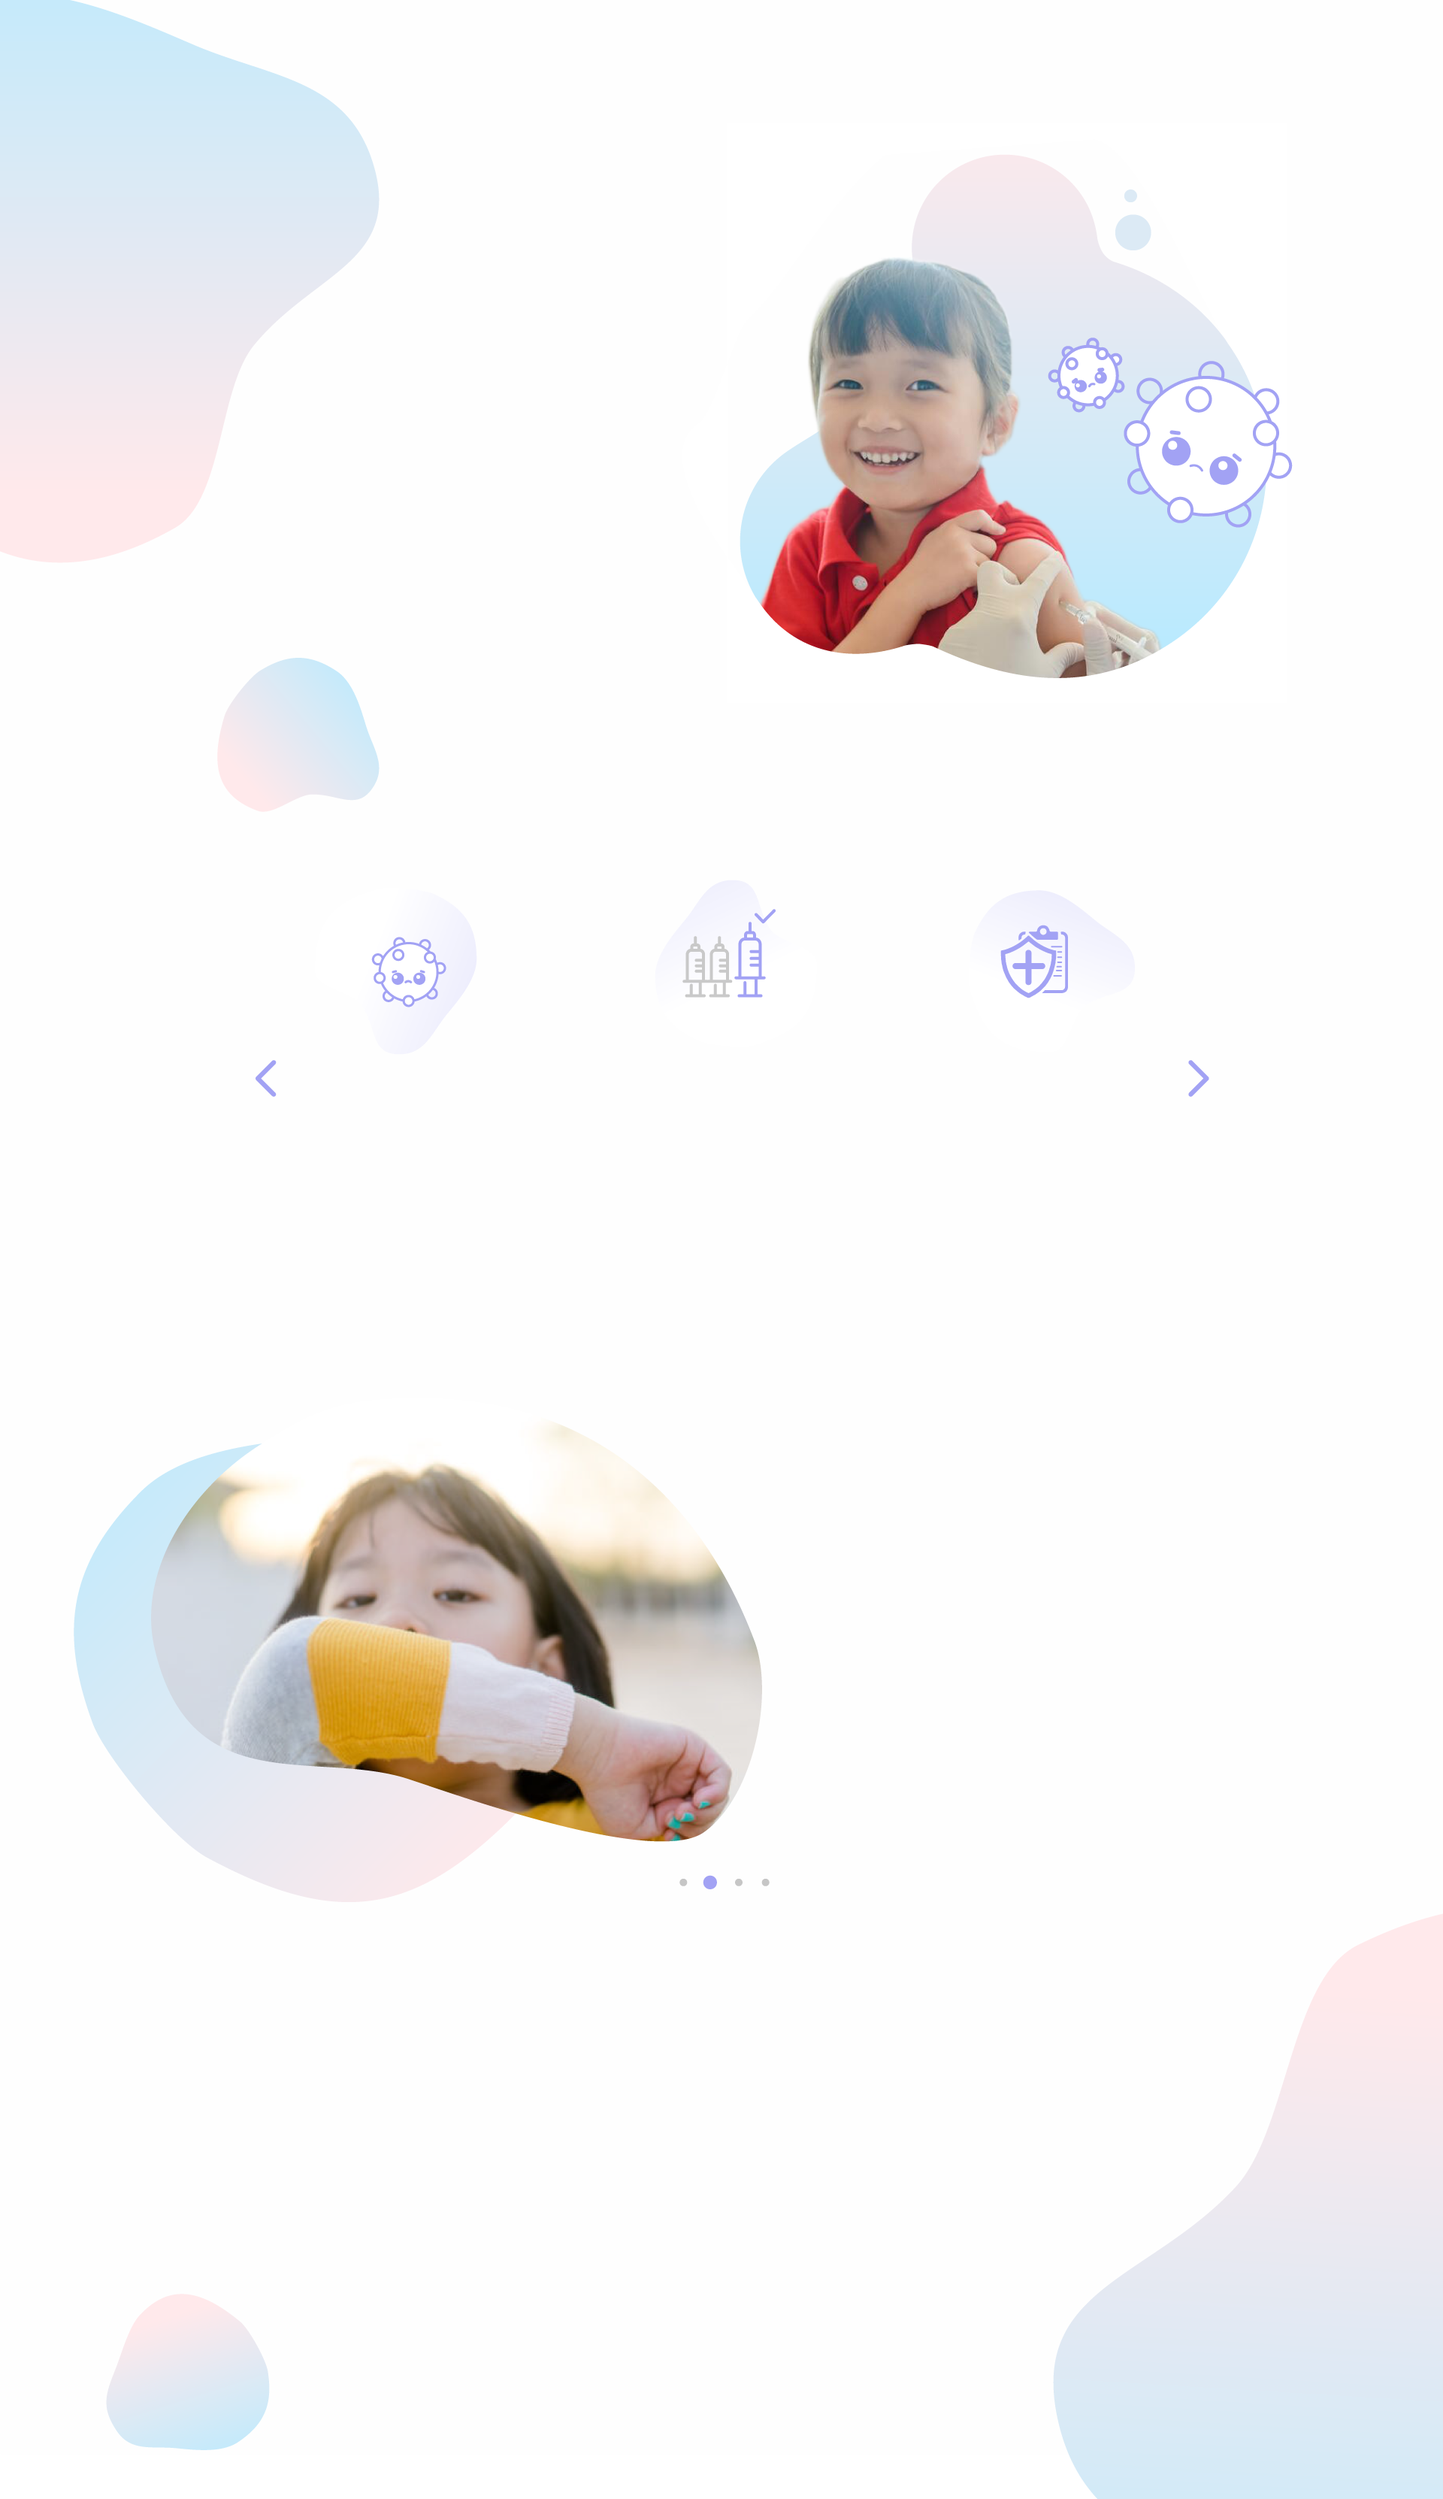
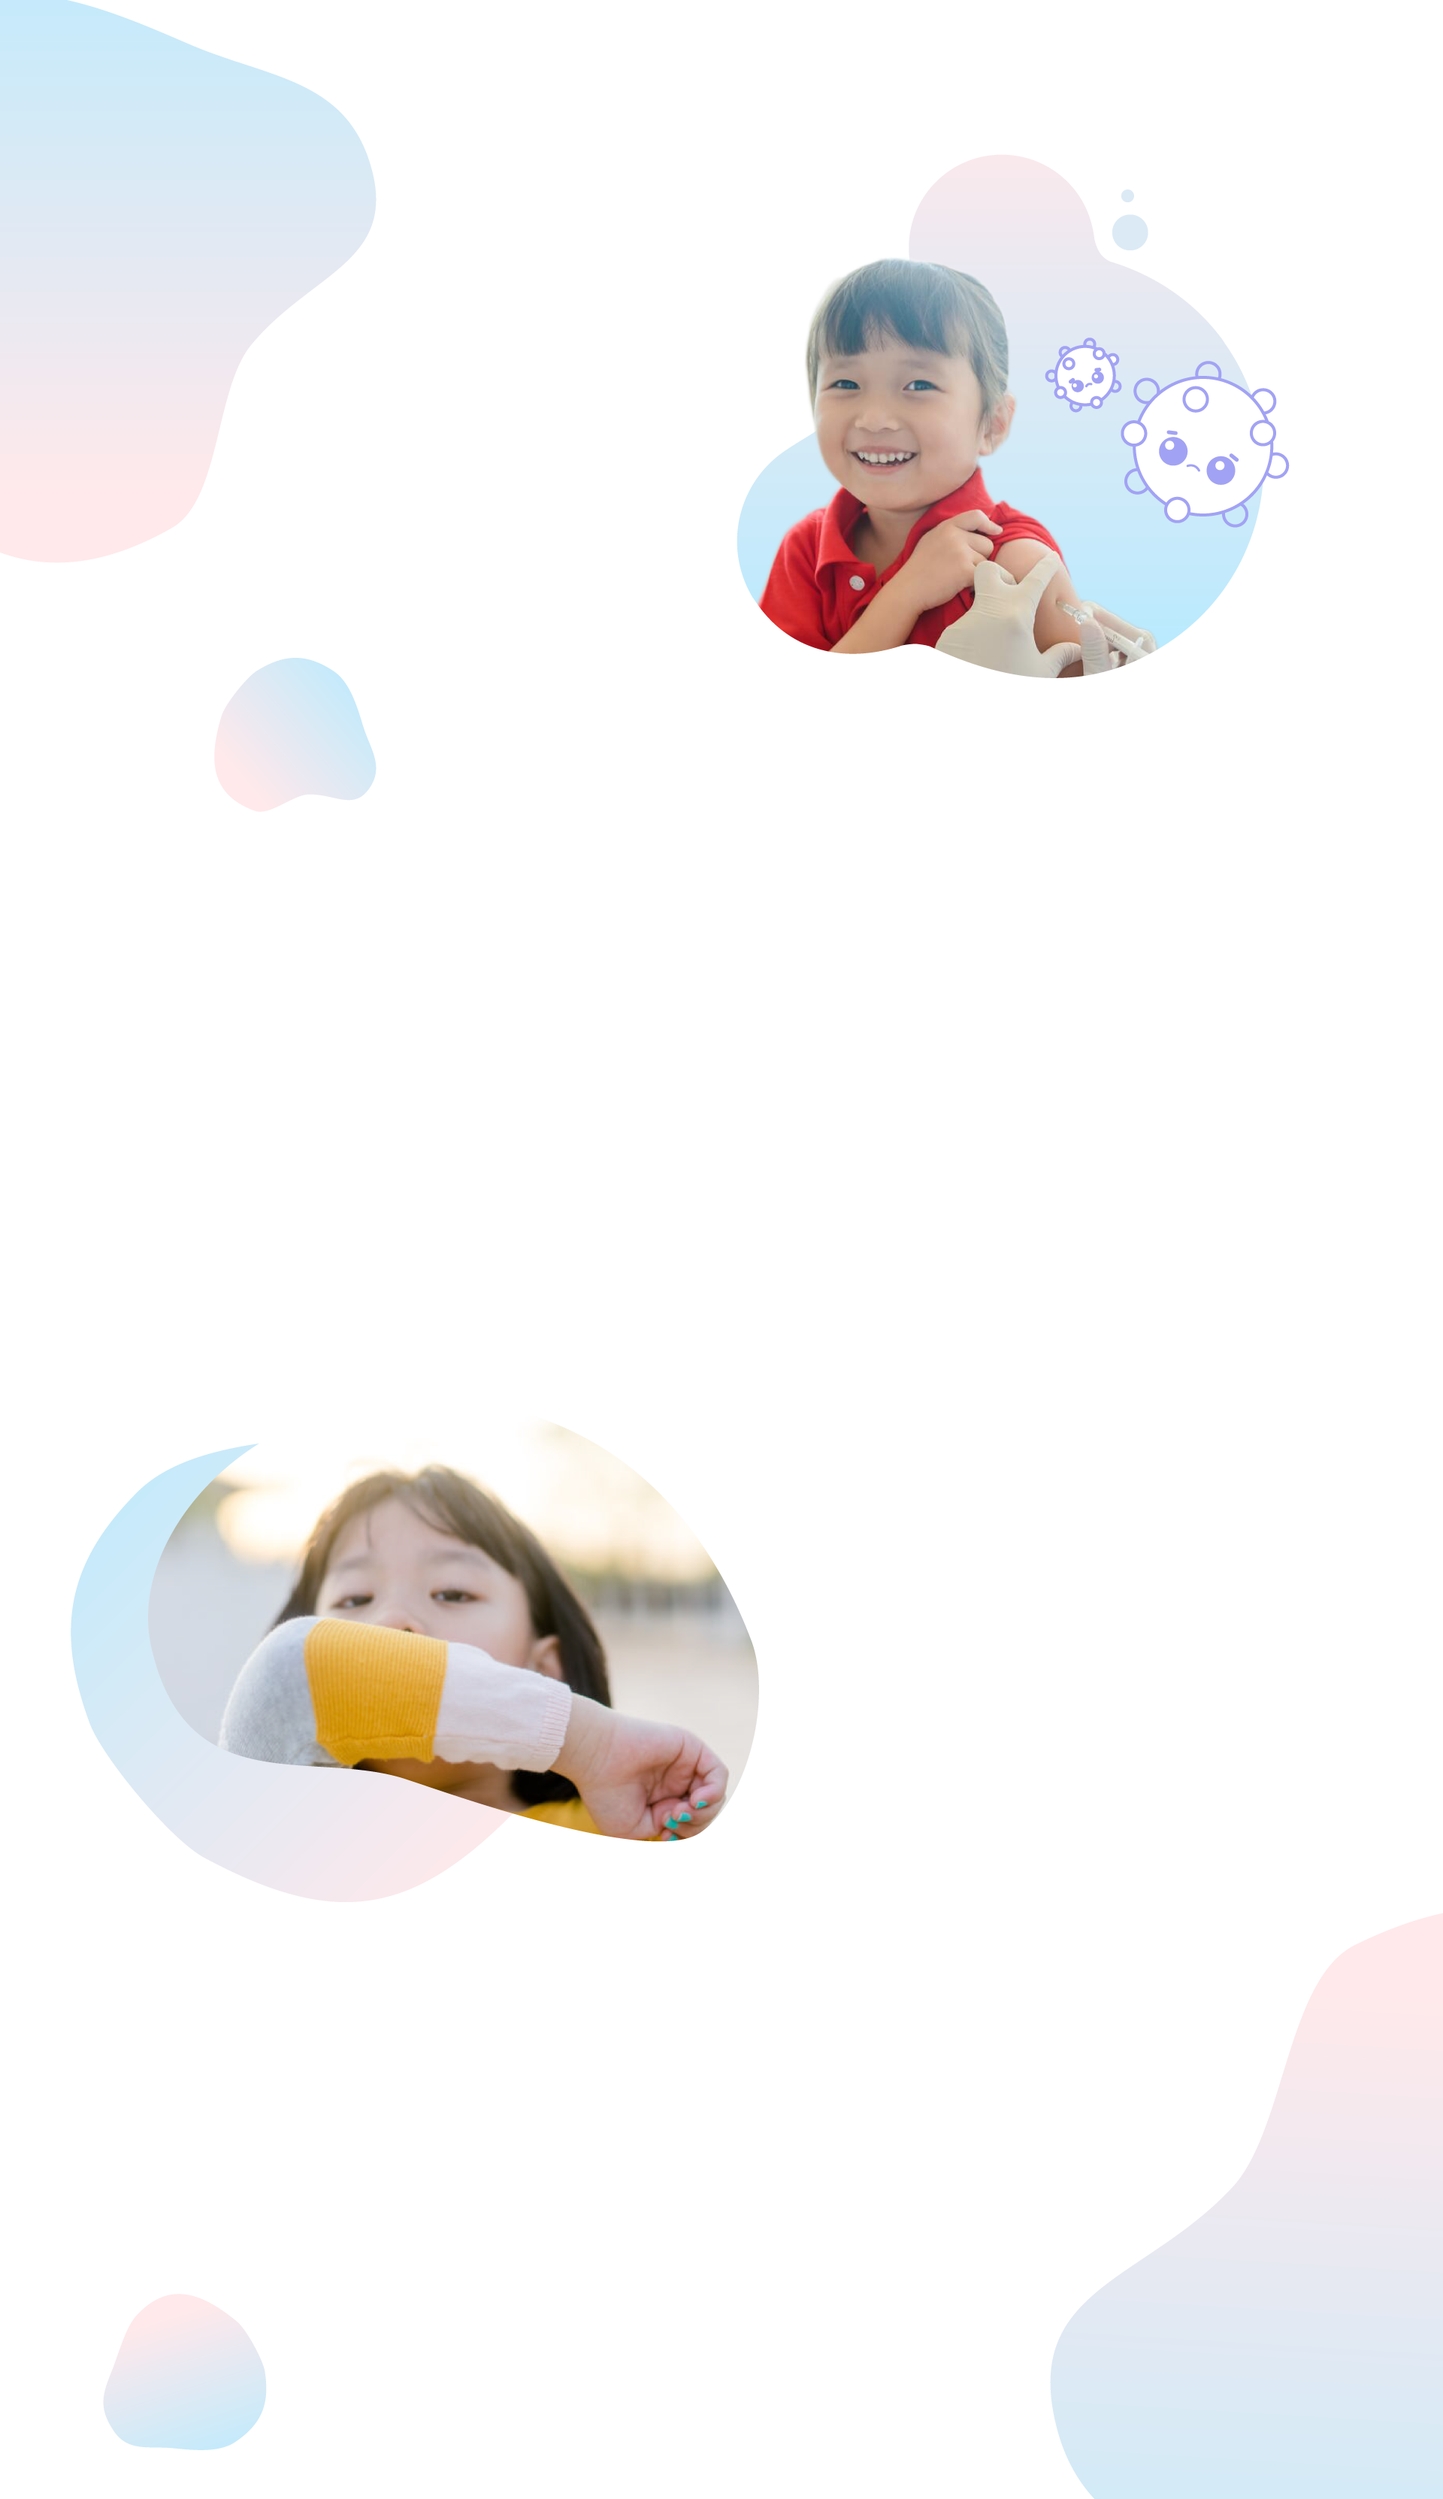
Add files via upload

diff --git a/index.html b/index.html
@@ -12,11 +12,11 @@
 	
 	<style>
 		body {
-			width: 1920px;
+			
 			height: 3324px;
 			background: url('image/web_1.png');
 			background-repeat: no-repeat;
-			background-size: 1920px 3324px
+			background-size: cover;
 			}
 		.one {font-size: 1.5em;
 			
@@ -43,10 +43,12 @@
 		div#header{
 			width: auto;
 			height: 200px;
+			white-space: nowrap;
 			}
 		div#header_in{
 			float: right;
 			width: 190px;
+			
 			
 			
 			
@@ -76,6 +78,7 @@
 		}
 		div#mid_header{
 			height: 600px;
+			white-space: nowrap;
 		
 		}
 		div#mid_header_in{
@@ -96,7 +99,7 @@
 			
 		}
 		div#table_up{
-			height: 310px;
+			height: 550px;
 		}
 		div#mid_low{
 			
@@ -105,6 +108,10 @@
 		div#low{
 			
 			height: 80px;
+		}
+		header_pyo{
+			
+			
 		}
 		
 	</style>
@@ -130,35 +137,31 @@
 <div id="big bbada">
   </div>
   
-<div class="" id="header">
+<div class="" id="header"><center><table width="1200px" border="0" id="header_pyo">
+  <tbody>
+    <tr>
+      
+      <td width="12%"><font size="6em">
+
+예방접종 PLUS</font></td>
+      <td width="30%" >&nbsp;</td>
+      <td width="10%"><a href="page4.html"><font size="+2"><p onMouseover="this.style.color='#A2A2F4';" onMouseout="this.style.color='black';">백신의 부작용</p></font></a></td>
+      <td width="2%">&nbsp;</td>
+      <td width="10%"> <a href="page2.html"><font size="+2"><p onMouseover="this.style.color='#A2A2F4';" onMouseout="this.style.color='black';">국내백신 현황</p></font></a></td>
+      <td width="2%">&nbsp;</td>
+      <td width="10%"><font size="+2"><a href="page3.html"><p onMouseover="this.style.color='#A2A2F4';" onMouseout="this.style.color='black';">국가 예방접종</p></font></a></td>
+      
+    </tr>
+  </tbody>
+</table>
+	</center>
+
 	
 	  
 	 
 		  
 	
-	<div class="" id="header_out"> &nbsp; </div>
 	
-
-	
-	<div id="title2">
-		<font size="6em">예방접종 PLUS</font>
-	</div>
-	
-	  <div class="one" id="rdot">
-		 &nbsp;
-		</div>
-	  <div class="one" id="header_in">
-		  <a href="page3.html">국가 예방접종</a>
-		</div>
-	<div class="one" id="header_in">
-		 <a href="page2.html">국내백신 현황</a>
-		</div>
-	<div class="one" id="header_in">
-		 <a href="page4.html">백신의 부작용</a> 
-		</div>
-	<div class="one" id="header_in">
-		 
-		</div>
 	
 	</div>
 	
@@ -171,10 +174,12 @@
 	
 <div id="mid_header">
 	
-	<div id="mid_header_in">.
-		</div>
-		
-		<div id="mid_heaer_in_health">
+	
+		<center><table width="80%" border="0">
+  <tbody>
+    <tr>
+      <td width="10%">&nbsp;</td>
+      <td width="30%"><div id="mid_heaer_in_health">
 		<font size="+5">건강한 내일을 여는<br>
 		예방접종의 가치
 			</font>
@@ -188,72 +193,56 @@
 			<br><br><br><br>
 			
 			<img src="image/guide.png" width="400"  alt=""/> </div>
-		</div>
+		</td>
+      <td>&nbsp;</td>
+    </tr>
+  </tbody>
+</table>
+			</center>
+</div>
+			
+
+		
 	
 	<div id="for your" class=for>
 		<center>
-		<font size="5">for your child<br></font><br>
-		<font size="4">당신의 관심이 내일의 건강을 이어나갑니다.</font>
+		  <p><font size="5">for your child<br>
+		    </font><br>
+		    <font size="4">당신의 관심이 내일의 건강을 이어나갑니다.</font>	      </p>
+		  <p><br>
+	      </p>
 			</center>
 		
 	</div>
 	
 	<div id="table_up">
-		&nbsp;
-		</div>
+		<center>
+		<table width="80%" height="" border="0">
+		  <tbody>
+		    <tr height="360px">
+		      <td width="20%">&nbsp;</td>
+		      <td width="14%"><center><img src="image/log1.png" width="232" height="326" alt=""/></center></td>
+		      <td width="11%"><img src="image/gad.png" width="72" height="38" alt=""/></td>
+		      <td width="14%"><center><img src="image/log2.png" width="246" height="346" alt=""/></center></td>
+		      <td width="11%"><img src="image/gad.png" width="72" height="38" alt=""/></td>
+		      <td width="14%"><center><img src="image/log3.png" width="238" height="346" alt=""/></center></td>
+		      <td width="20%">&nbsp;</td>
+	        </tr>
+		    <tr>
+		      <td>&nbsp;</td>
+		      <td><center><a href="page4.html"><img src="image/view more.png" width="225" height="58" alt=""/></a></center></td>
+		      <td>&nbsp;</td>
+		      <td><a href="page4.html"><img src="image/view more.png" width="225" height="58" alt=""/></a></center></td>
+		      <td>&nbsp;</td>
+		      <td><a href="page4.html"><img src="image/view more.png" width="225" height="58" alt=""/></a></center></td>
+		      <td>&nbsp;</td>
+	        </tr>
+	      </tbody>
+	  </table></center>
+
+	</div>
 	
-	<table width="1920" border="0">
-  <tbody>
-    <tr>
-       <td width="1000" height="165">&nbsp;</td>
-      <td width="450">
-		  <center>
-		  <font size="5">백신의 부작용</font><br>
-			  <br>
-		<font size="3">백신은 무조건 적으로<br>
-		  접종받는 것 보다 자녀의<br>
-		  채질을 파악 하는 것 이 <br>
-		  예방접종에 필수적 입니다.
-			</font>
-			  </center>
-		</td>
-		<td width="250">&nbsp;</td>
-      <td width="450">
-		   <center>
-		<font size="5">선택의 중요성</font><br>
-		  <br>
-		 <font size="3"> 만약을 위해 예방접종을<br>
-		  하것은 좋지만 필요없는<br>
-		  예방접종은 피하는게<br>
-		  좋습니다.</font>
-			    </center>
-		
-		</td>
-		<td width="250">&nbsp;</td>
-		<td width="450">
-		 <center><font size="5">국가지원 백신</font>
-		<br><br>
-			<font size="3"> 국가예방접종 지원사업에<br>
-			 해당되는 백신을 접종<br>
-			 받지 않으셨다면 무료료<br>
-			 접종 받으실수 있습니다.</font>
-			</center>
-		</td>
-      <td width="1000">&nbsp;</td>
-    </tr>
-    
-    <tr>
-       <td width="1000" height="120">&nbsp;</td>
-      <td width="450">
-      <center><a href="page4.html"><img src="image/view more.png" width="253" height="66" alt=""/></a></center></td>
-		<td width="100">&nbsp;</td>
-      <td width="450"> <center><img src="image/view more.png" width="253" height="66" alt=""/></center></td>
-		<td width="100">&nbsp;</td>
-		<td width="450"> <center><a href="page3.html"><img src="image/view more.png" width="253" height="66" alt=""/></a></center></td>
-      <td width="1000">&nbsp;</td>
-    </tr>
-  </tbody>
-</table>
+	
 
 	<div id="for your up">
 	&nbsp;<br>&nbsp;<br>&nbsp;<br>&nbsp;<br>&nbsp;
@@ -298,7 +287,7 @@
     <tr>
       <td height="100">&nbsp;</td>
       <td>&nbsp;</td>
-      <td><img src="image/allabogi.png"  alt="" width="406" height="72"/></td>
+      <td><a href="https://www.youtube.com/watch?v=zBkVCpbNnkU"><img src="image/allabogi.png"  alt="" width="406" height="72"/></a></td>
     </tr>
 	  <tr>
       <td height="200">&nbsp;</td>

diff --git a/page2.html b/page2.html
@@ -12,11 +12,11 @@
 	
 	<style>
 		body {
-			width: 1920px;
+		
 			height: 2191px;
 			background: url('image/web_2.png');
 			background-repeat: no-repeat;
-			background-size: 1920px 2191px
+			background-size: cover;
 			}
 		.one {font-size: 1.5em;
 			
@@ -43,6 +43,7 @@
 		div#header{
 			width: auto;
 			height: 200px;
+			white-space: nowrap;
 			}
 		div#header_in{
 			float: right;
@@ -118,38 +119,32 @@
 		
   </div>
 	
-<div id="big bbada">
-  </div>
-  
-<div class="" id="header">
+
+<div class="" id="header"><center><table width="1200px" border="0" id="header_pyo">
+  <tbody>
+    <tr>
+      
+      <td width="12%"><font size="6em">
+
+<a href="index.html">예방접종 PLUS</a></font></td>
+      <td width="30%" >&nbsp;</td>
+      <td width="10%"><a href="page4.html"><font size="+2"><p onMouseover="this.style.color='#A2A2F4';" onMouseout="this.style.color='black';">백신의 부작용</p></font></a></td>
+      <td width="2%">&nbsp;</td>
+      <td width="10%"> <a href="page2.html"><font size="+2"><p onMouseover="this.style.color='#A2A2F4';" onMouseout="this.style.color='black';">국내백신 현황</p></font></a></td>
+      <td width="2%">&nbsp;</td>
+      <td width="10%"><font size="+2"><a href="page3.html"><p onMouseover="this.style.color='#A2A2F4';" onMouseout="this.style.color='black';">국가 예방접종</p></font></a></td>
+      
+    </tr>
+  </tbody>
+</table>
+	</center>
+
 	
 	  
 	 
 		  
 	
-	<div class="" id="header_out"> &nbsp; </div>
 	
-
-	
-	<div id="title2">
-		<font size="6em"><a href="index.html">예방접종 PLUS</a></font>
-	</div>
-	
-	  <div class="one" id="rdot">
-		 &nbsp;
-		</div>
-	  <div class="one" id="header_in">
-		 <a href="page3.html">국가 예방접종</a>
-		</div>
-	<div class="one" id="header_in">
-		 국내백신 현황
-		</div>
-	<div class="one" id="header_in">
-		<a href="page4.html"> 백신의 부작용</a> 
-		</div>
-	<div class="one" id="header_in">
-		 
-		</div>
 	
 	</div>
 	
